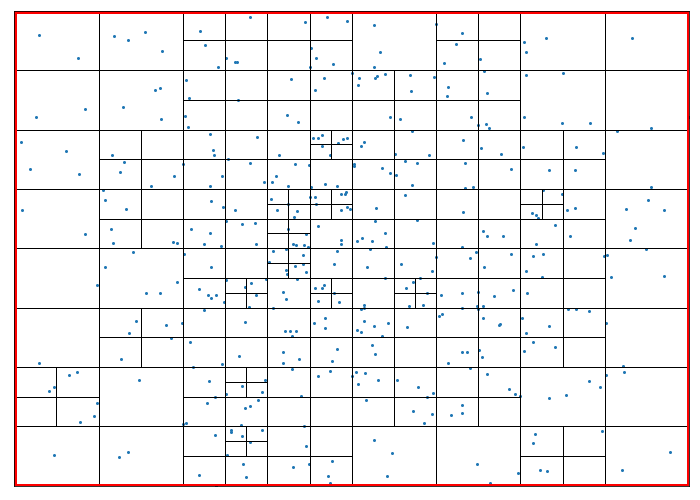
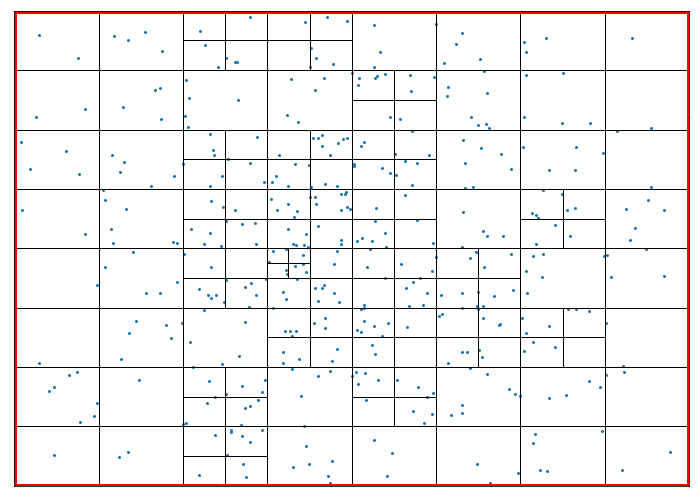
Started another quadtree from scratch, based on the first one.
Started new quadtree branch to better understand the data structure and iron bugs found along the way.

diff --git a/quadtree2.py b/quadtree2.py
@@ -1,0 +1,78 @@
+
+
+class Point:
+    def __init__(self, x, y, content):
+        self.x = x
+        self.y = y
+        self.content = content
+
+class Node: # Essentially the bounding area the quadtree will be built inside of
+    def __init__(self, cx, cy, w, h):
+        self.cx = cx
+        self.cy = cy
+
+        # North, south, east, west bounding boxes
+        self.north = cy + h/2
+        self.south = cy - h/2
+        self.east = cx + w/2
+        self.west = cx - w/2
+
+    # contains method
+    def contains(self, point):
+        return self.west <= point.x < self.east and self.south <= point.y < self.north
+
+    def draw(self, ax, color, linewidth):
+        ax.plot([self.north, self.north, self.south, self.south, self.north],
+                [self.west, self.east, self.east, self.west, self.west], c=color, linewidth=linewidth)
+
+class QuadTree: # The tree. The node passed to it is the root node, and it has 4 children
+    def __init__(self, rootnode, max_p):
+        self.rootnode = rootnode
+        self.max_p = max_p
+        self.points = []
+        self.is_divided = False
+
+    def split(self):
+        if self.is_divided:
+            print("Error: Asking to split an already split node.")
+            return False
+
+        ne_node = Node(self.rootnode.cx + (self.rootnode.w/4), self.rootnode.cy + (self.rootnode.h/4),
+                       self.rootnode.w/2, self.rootnode.h/2)
+        self.ne = QuadTree(ne_node, self.max_p)
+
+        nw_node = Node(self.rootnode.cx - (self.rootnode.w/4), self.rootnode.cy + (self.rootnode.h/4),
+                       self.rootnode.w/2, self.rootnode.h/2)
+        self.nw = QuadTree(nw_node, self.max_p)
+
+        sw_node = Node(self.rootnode.cx - (self.rootnode.w/4), self.rootnode.cy - (self.rootnode.h/4),
+                       self.rootnode.w/2, self.rootnode.h/2)
+        self.sw = QuadTree(sw_node, self.max_p)
+
+        se_node = Node(self.rootnode.cx + (self.rootnode.w/4), self.rootnode.cy - (self.rootnode.h/4),
+                       self.rootnode.w/2, self.rootnode.h/2)
+        self.se = QuadTree(se_node, self.max_p)
+
+    def insert(self, point):
+
+        # Checks if the point is contained in the quadrant
+        if not self.rootnode.contains(point):
+            return False
+
+        # Base case (insert point)
+        if len(self.points) < self.max_p:
+            self.points.append(point)
+            return True
+
+        if not self.is_divided:
+            self.split()
+
+        return self.ne.insert(point) or self.nw.insert(point) or self.sw.insert(point) or self.se.insert(point)
+
+    def draw(self, ax, color='k', linewidth=1):
+        self.rootnode.draw(ax, color, linewidth)
+        if self.is_divided:
+            self.ne.draw(ax, color, linewidth)
+            self.nw.draw(ax, color, linewidth)
+            self.sw.draw(ax, color, linewidth)
+            self.se.draw(ax, color, linewidth)

diff --git a/quadtree.py b/quadtree.py
@@ -83,13 +83,12 @@ class Quadtree:
         self.divided = True
 
     def insert(self, point):
-        # if len(self.points) >= 4:
-        #     print(len(self.points))
+
         if not self.boundary.contains(point):
             return False
 
         if len(self.points) < self.point_limit:
-            #print(f"adding point to quad with {len(self.points)}")
+            print(f"adding point to quad with {len(self.points)}")
             self.points.append(point)
             return True
 
@@ -101,7 +100,8 @@ class Quadtree:
                 or self.se.insert(point) or self.sw.insert(point))
 
     def draw(self, ax, linewidth=1, color='k'):
-        self.boundary.draw(ax, linewidth, color)
+        if self.boundary:
+            self.boundary.draw(ax, linewidth, color)
         if self.divided:
             self.ne.draw(ax, linewidth, color)
             self.nw.draw(ax, linewidth, color)

diff --git a/main2.py b/main2.py
@@ -1,0 +1,19 @@
+import matplotlib.pyplot as plt
+import numpy as np
+from quadtree2 import *
+
+np.random.seed(10)
+
+fig = plt.figure()
+ax = fig.add_subplot(111)
+
+x_values = np.random.randint(0, 700, 200)
+y_values = np.random.randint(0, 700, 200)
+
+point_coords = np.concatenate((np.expand_dims(x_values, axis=1), np.expand_dims(y_values, axis=1)), axis=1)
+
+ax.scatter(x_values, y_values, c='b', s=1)
+
+
+
+plt.show()

diff --git a/main.py b/main.py
@@ -13,7 +13,7 @@ points = [Point(*coord) for coord in coords]
 print(len(points))
 center = Point(width/2, height/2)
 domain = Rectangle(center, height, width)
-qtree = Quadtree(domain, 3)
+qtree = Quadtree(domain, 5)
 for point in points:
     qtree.insert(point)
 
